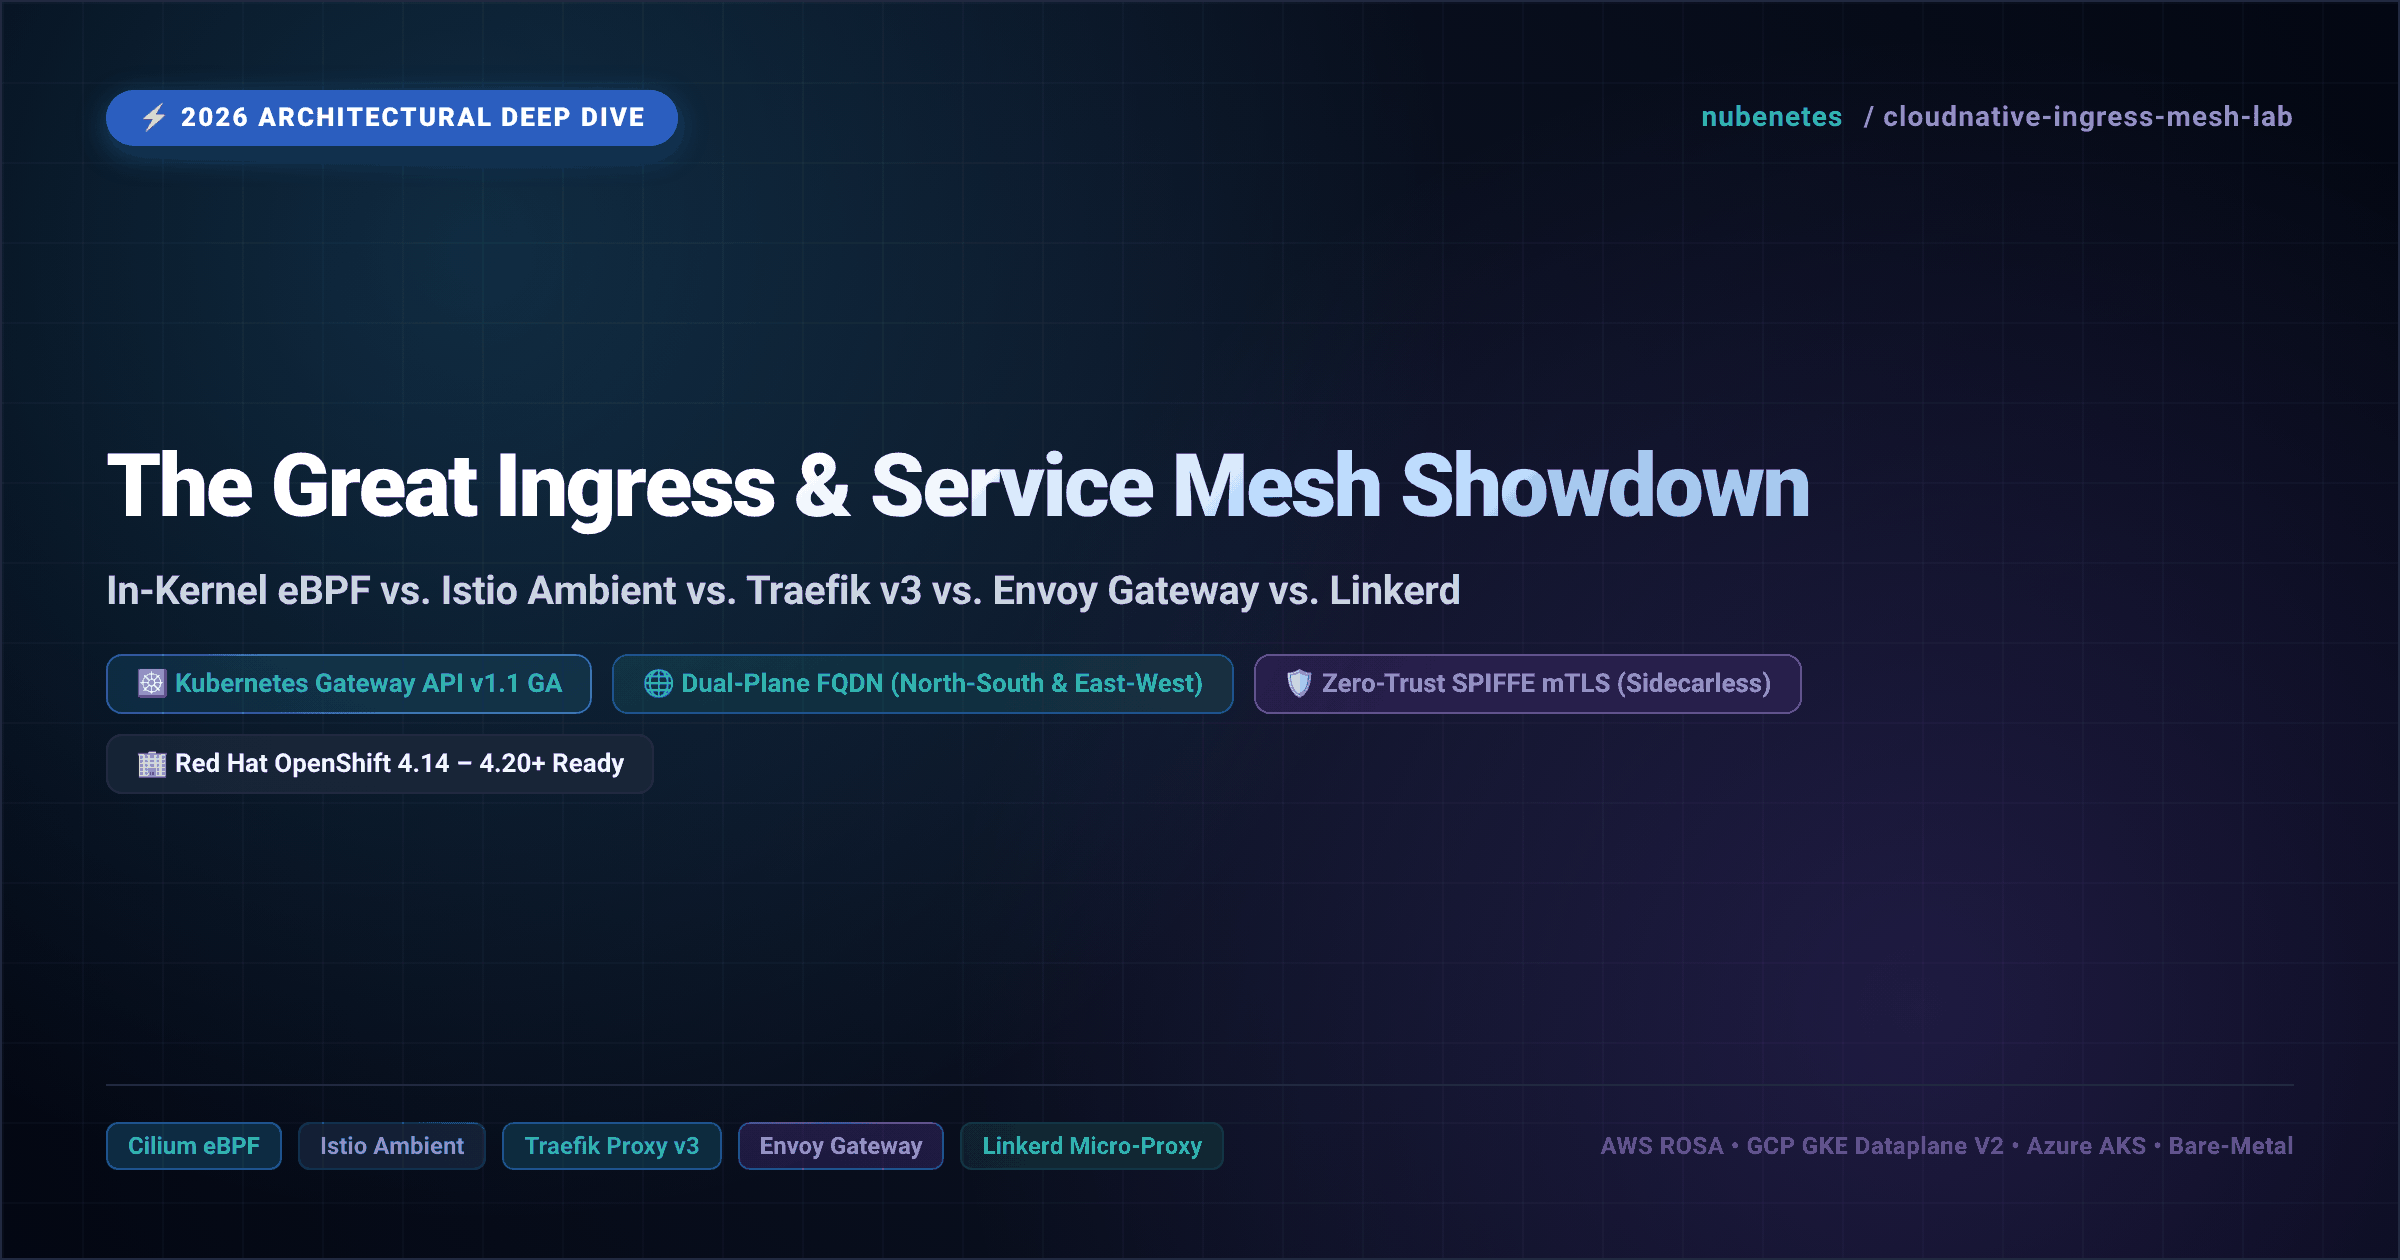
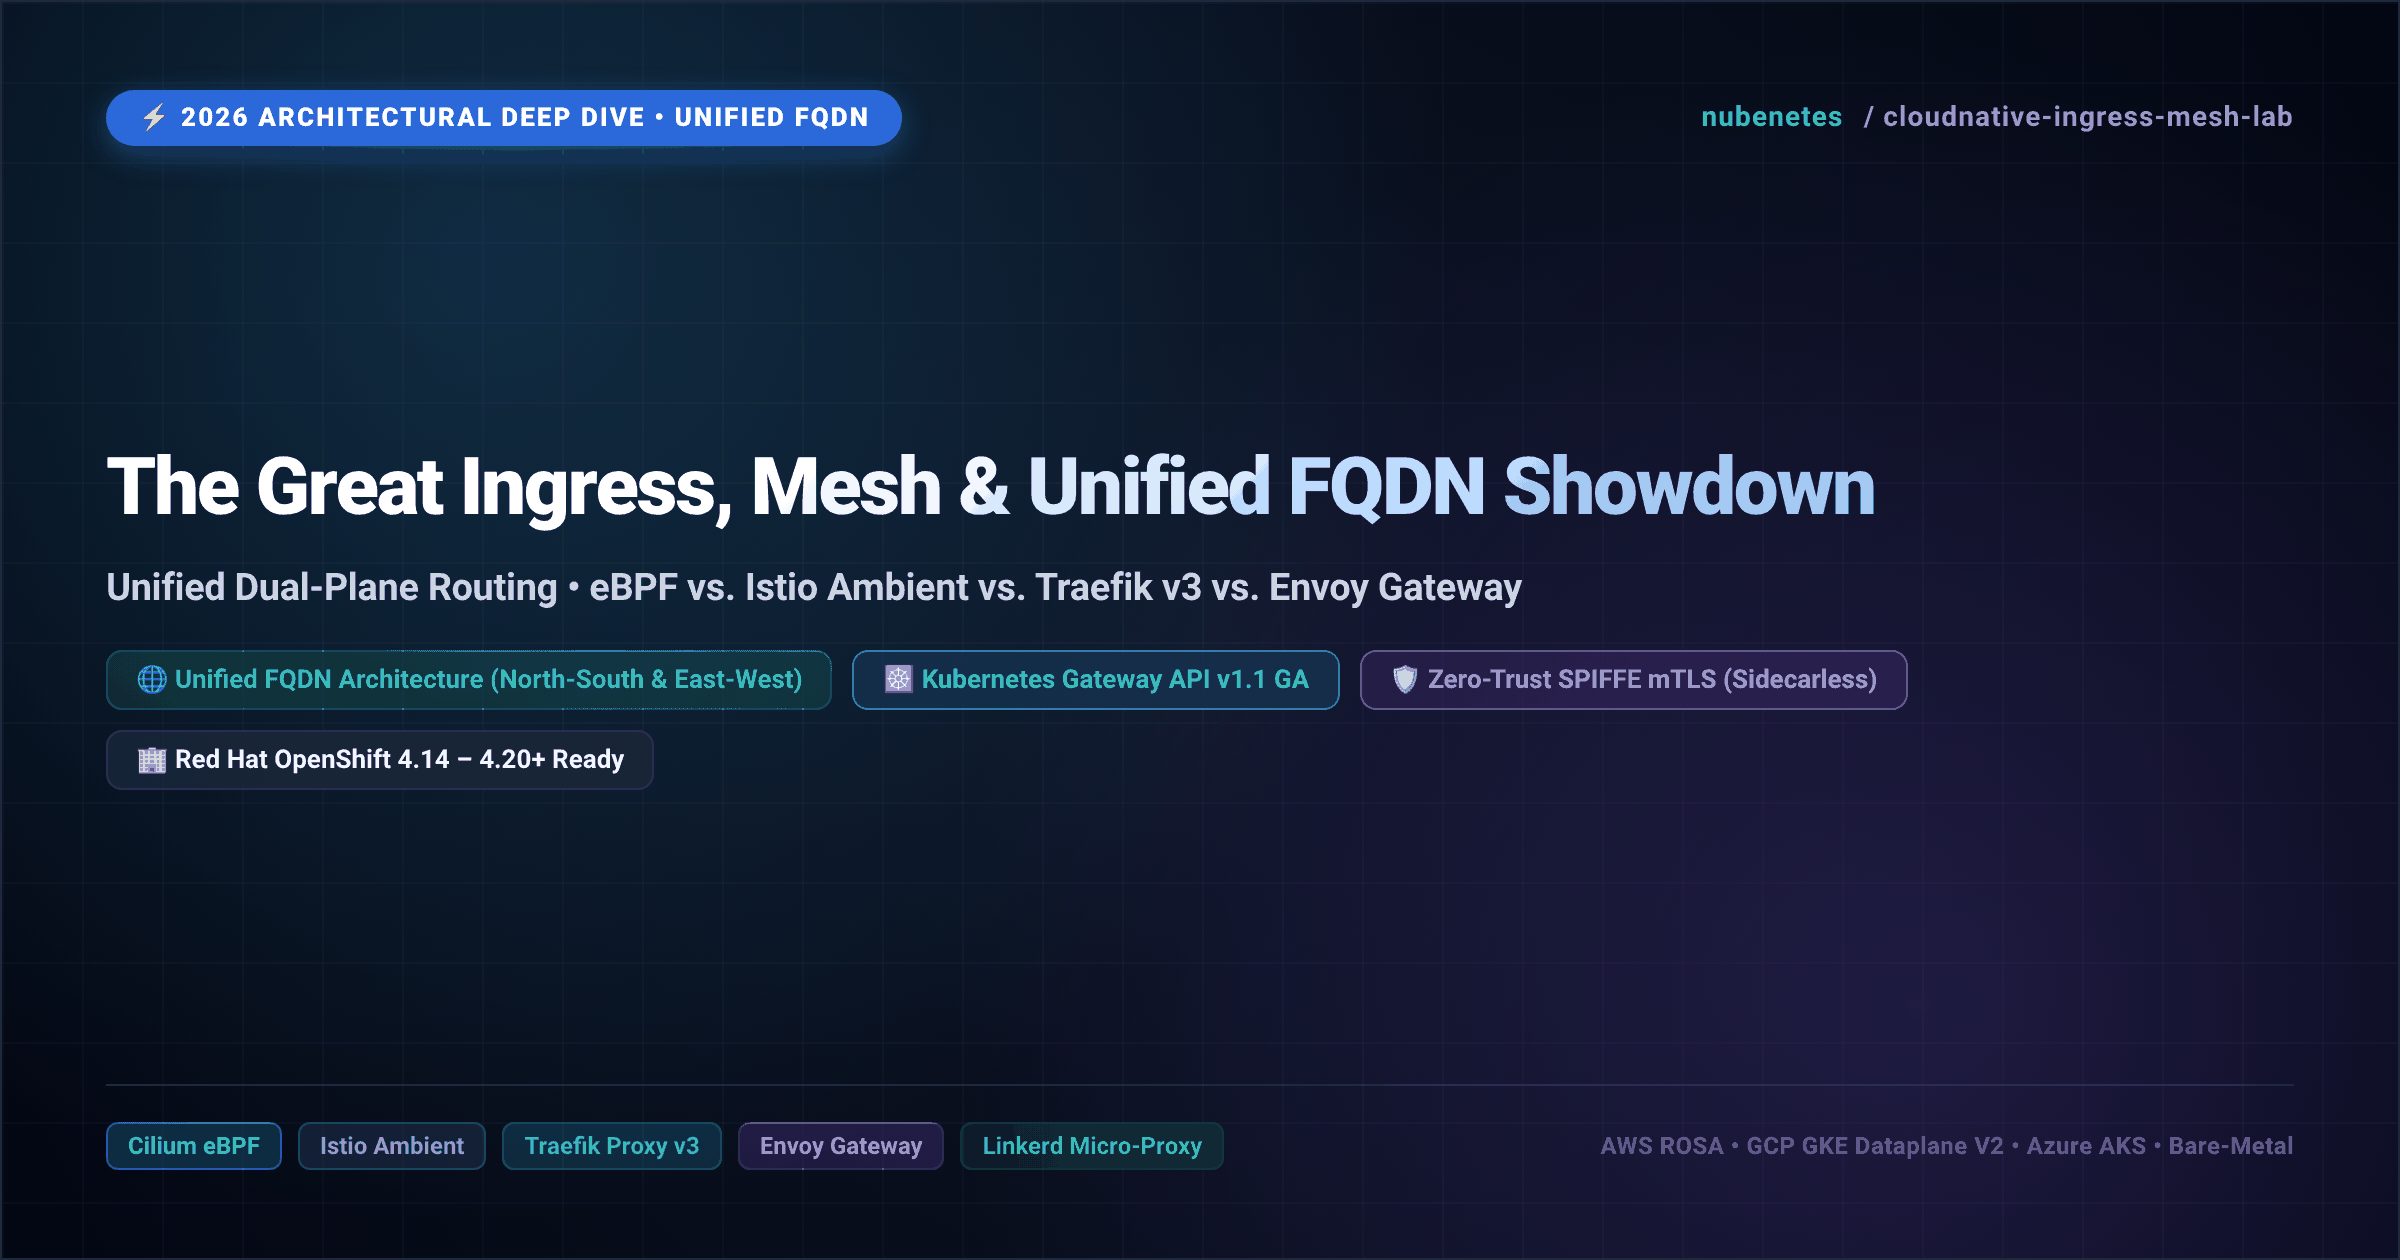
docs: add Unified FQDN to newsletter titles, covers, and technical explanations

Changed region(s): [[0.0312, 0.3405, 0.7812, 0.65], [0.0312, 0.0619, 0.375, 0.1548], [0.2188, 0.8976, 0.25, 0.9286]]

diff --git a/LINKEDIN_NEWSLETTER_ES.md b/LINKEDIN_NEWSLETTER_ES.md
@@ -1,6 +1,6 @@
-# 🚀 La Gran Batalla de Ingress y Service Mesh (Edición 2026): eBPF vs. Istio Ambient vs. Traefik v3 vs. Envoy Gateway vs. Linkerd
+# 🚀 La Gran Batalla de Ingress, Service Mesh y FQDN Unificado (Edición 2026): eBPF vs. Istio Ambient vs. Traefik v3 vs. Envoy Gateway vs. Linkerd
 
-**Subtítulo:** *Descifrando Kubernetes Gateway API, el Enrutamiento FQDN de Doble Plano y el Fin de los Sidecars en Entornos Corporativos de Kubernetes y Red Hat OpenShift*  
+**Subtítulo:** *Por qué la Arquitectura de FQDN Unificado (Norte-Sur y Este-Oeste) es Fundamental, Dominando Kubernetes Gateway API v1.1 GA y el Fin de los Sidecars en Kubernetes y Red Hat OpenShift Empresarial*  
 **Autor:** Equipo de Arquitectura e Ingeniería de Plataformas Cloud-Native  
 **Repositorios Oficiales de GitHub:**  
 👉 [**nubenetes/cloudnative-ingress-mesh-lab**](https://github.com/nubenetes/cloudnative-ingress-mesh-lab) (Laboratorio Multi-Motor)  
@@ -9,7 +9,7 @@
 
 ---
 
-![Portada del Newsletter: La Gran Batalla de Ingress y Service Mesh](https://raw.githubusercontent.com/nubenetes/cloudnative-ingress-mesh-lab/main/docs/images/newsletter/cover_newsletter_es.png)  
+![Portada del Newsletter: La Gran Batalla de Ingress, Mesh y FQDN Unificado](https://raw.githubusercontent.com/nubenetes/cloudnative-ingress-mesh-lab/main/docs/images/newsletter/cover_newsletter_es.png)  
 *🔍 [Ver Imagen de Portada en Alta Resolución (1200x630)](https://raw.githubusercontent.com/nubenetes/cloudnative-ingress-mesh-lab/main/docs/images/newsletter/cover_newsletter_es.png)*
 
 ---
@@ -54,9 +54,50 @@ Cada tecnología en el ecosistema cloud-native fue concebida para resolver un cu
 
 ---
 
-## 🌐 El Dilema del Enrutamiento FQDN de Doble Plano (Norte-Sur vs. Este-Oeste)
+## 🌐 ¿Qué es el FQDN Unificado y por qué es Crítico? El Dilema del Doble Plano (Norte-Sur vs. Este-Oeste)
 
-Uno de los errores conceptuales más frecuentes en la ingeniería de plataformas ocurre con la **resolución de nombres de dominio (FQDN)**.
+### 🎯 ¿Qué Significa "FQDN Unificado" en Arquitectura Cloud-Native?
+
+En implementaciones tradicionales de Kubernetes y Red Hat OpenShift, los equipos de plataforma operan con frecuencia bajo una desconexión o "split-brain" involuntario:
+- **Plano Norte-Sur (Ingress Perimetral):** Los clientes externos, navegadores web, aplicaciones móviles e integraciones de terceros acceden a los servicios a través de nombres canónicos corporativos limpios (por ejemplo, `https://facturacion.internal.corp/cobrar` o `https://api.empresa.com/v1/usuarios`).
+- **Plano Este-Oeste (Comunicación Interna Intra-Clúster):** Los microservicios que se llaman entre sí dentro del clúster se ven forzados a utilizar los nombres internos de CoreDNS (por ejemplo, `http://facturacion-svc.pagos-ns.svc.cluster.local:8080/cobrar`).
+
+El **FQDN Unificado (Unificación de Nombres de Dominio Completamente Calificados)** es un estándar de diseño arquitectónico en el que **un único nombre de dominio corporativo canónico** (como `facturacion.internal.corp` o `api.empresa.com`) es consumido de forma universal **tanto por clientes externos como por microservicios internos**, independientemente de dónde resida el emisor o el pod de destino.
+
+Bajo una arquitectura de FQDN Unificado:
+- Un desarrollador al programar, redactar especificaciones OpenAPI, compilar SPAs frontend o construir microservicios backend invoca exactamente el mismo endpoint: `https://facturacion.internal.corp/cobrar`.
+- La infraestructura de red subyacente (DNS, Gateway API, Ingress o Service Mesh) resuelve y enruta la conexión de forma totalmente transparente hacia el pod local o remoto, sin obligar al equipo de desarrollo a mantener configuraciones duplicadas ni URLs dependientes del entorno.
+
+---
+
+### 🛡 ¿Por qué es Crítico el FQDN Unificado en Entornos Empresariales?
+
+Implementar un FQDN Unificado no es un mero detalle cosmético de nomenclatura: es una pieza angular indispensable para la estabilidad, gobernanza y seguridad de cualquier plataforma moderna:
+
+1. **Eliminación del "Environment Drift" y Código Contaminado**:
+   - En arquitecturas de dominios divididos, el código fuente y los charts de Helm se llenan de bifurcaciones condicionales y variables de entorno duplicadas (`URL_FACTURACION_EXTERNA` frente a `URL_FACTURACION_INTERNA`).
+   - El FQDN Unificado asegura que el mismo artefacto, contenedor y SDK de cliente funcione de manera idéntica en entornos locales de desarrollo, canalizaciones CI/CD, clústeres de staging y producción multitenant.
+
+2. **Seguridad Zero-Trust y Aplicación Universal de Políticas L7**:
+   - Cuando los microservicios internos se comunican usando IPs ClusterIP directas (`*.svc.cluster.local`), el tráfico evade por completo los gateways perimetrales, los motores WAF, la validación de tokens JWT, los limitadores de tasa y los circuit breakers de Capa 7.
+   - Enrutar a través de un FQDN Unificado garantiza que **todo el tráfico—tanto el externo como el Este-Oeste interno—es inspeccionado y gobernado por las políticas de Gateway API o de la Malla de Servicios**, aplicando auditoría, control de acceso y mTLS homogéneo.
+
+3. **Validación Transparente de Certificados TLS y Nombres Alternativos (SAN)**:
+   - El modelo Zero-Trust corporativo exige cifrado TLS extremo a extremo con estricta validación de hostnames.
+   - Al usar `*.svc.cluster.local`, las entidades emisoras de certificados (cert-manager, HashiCorp Vault) deben emitir certificados con nombres SAN internos no estándar, o en el peor de los casos, los desarrolladores desactivan la validación con `insecureSkipVerify: true` (una grave brecha de seguridad).
+   - Con FQDN Unificado, los certificados corporativos oficiales (`SAN: facturacion.internal.corp`) validan sin advertencias ni excepciones tanto dentro como fuera del clúster.
+
+4. **Desacoplamiento de la Topología de Clúster y Movilidad Híbrida**:
+   - Acoplarse a `servicio.namespace.svc.cluster.local` ata rígidamente las aplicaciones al clúster y namespace físico. Si el servicio de facturación se migra a otro namespace, a un clúster dedicado, a una base de datos gestionada o se traslada durante una actualización blue-green del clúster, todos los clientes internos fallan.
+   - Con FQDN Unificado, la ubicación física es abstracta. Las cargas de trabajo adquieren movilidad absoluta entre OpenShift on-premises, AWS ROSA y GCP GKE Dataplane V2 sin alterar una sola línea de código.
+
+---
+
+### ⚠ La Trampa del Doble Plano: El Límite entre Capa 4 y Capa 7
+
+Si el FQDN Unificado es tan beneficioso, ¿por qué no viene habilitado por defecto en Kubernetes?
+
+Por la **Trampa del Límite de Capas**. El fallo más recurrente en ingeniería de plataformas consiste en asumir que Gateway API por sí solo resuelve la resolución interna de nombres:
 
 Muchos arquitectos asumen erróneamente:
 > *"Si configuro un `HTTPRoute` de Gateway API con `Host(`facturacion.internal.corp`)`, mis microservicios internos podrán conectarse inmediatamente invocando `https://facturacion.internal.corp/cobrar`."*

diff --git a/LINKEDIN_NEWSLETTER_EN.md b/LINKEDIN_NEWSLETTER_EN.md
@@ -1,6 +1,6 @@
-# 🚀 The Great Ingress & Service Mesh Showdown (2026 Edition): eBPF vs. Istio Ambient vs. Traefik v3 vs. Envoy Gateway vs. Linkerd
+# 🚀 The Great Ingress, Service Mesh & Unified FQDN Showdown (2026 Edition): eBPF vs. Istio Ambient vs. Traefik v3 vs. Envoy Gateway vs. Linkerd
 
-**Subtitle:** *Navigating Kubernetes Gateway API, Dual-Plane FQDN Routing, and the Death of Sidecars in Enterprise Kubernetes & Red Hat OpenShift*  
+**Subtitle:** *Why Unified FQDN (North-South & East-West) is Essential, Navigating Kubernetes Gateway API v1.1 GA, and the Elimination of the Sidecar Tax in Enterprise Kubernetes & Red Hat OpenShift*  
 **Author:** Cloud-Native Platform Engineering Architecture Team  
 **Companion GitHub Repositories:**  
 👉 [**nubenetes/cloudnative-ingress-mesh-lab**](https://github.com/nubenetes/cloudnative-ingress-mesh-lab) (Multi-Engine Laboratory)  
@@ -9,7 +9,7 @@
 
 ---
 
-![Cover Banner: The Great Ingress & Service Mesh Showdown](https://raw.githubusercontent.com/nubenetes/cloudnative-ingress-mesh-lab/main/docs/images/newsletter/cover_newsletter_en.png)  
+![Cover Banner: The Great Ingress, Mesh & Unified FQDN Showdown](https://raw.githubusercontent.com/nubenetes/cloudnative-ingress-mesh-lab/main/docs/images/newsletter/cover_newsletter_en.png)  
 *🔍 [View Full-Resolution Cover Image (1200x630)](https://raw.githubusercontent.com/nubenetes/cloudnative-ingress-mesh-lab/main/docs/images/newsletter/cover_newsletter_en.png)*
 
 ---
@@ -54,9 +54,50 @@ Every technology in the cloud-native networking landscape was designed to solve 
 
 ---
 
-## 🌐 The Dual-Plane FQDN Routing Dilemma (North-South vs. East-West)
+## 🌐 What is Unified FQDN & Why is it Critical? The Dual-Plane Dilemma (North-South vs. East-West)
 
-One of the most frequent points of failure in enterprise Kubernetes deployments is **domain name resolution (FQDN routing)**.
+### 🎯 What Does "Unified FQDN" Mean in Cloud-Native Architecture?
+
+In conventional Kubernetes and OpenShift implementations, platform engineering teams frequently operate under an unintentional architectural split-brain:
+- **North-South (External Ingress Plane):** External clients, public browsers, mobile applications, and partner integrations connect via standard, business-friendly hostnames (e.g., `https://billing.corp.internal/charge` or `https://api.corporate.com/v1/users`).
+- **East-West (Internal In-Cluster Plane):** Microservices calling each other from within the same cluster are forced to rely on Kubernetes-internal cluster-local DNS names (e.g., `http://billing-svc.payments-ns.svc.cluster.local:8080/charge`).
+
+**Unified FQDN (Fully Qualified Domain Name Unification)** is an architectural design paradigm where **one single, canonical corporate domain name** (such as `billing.corp.internal` or `api.corporate.com`) is used universally by **both external clients and internal microservices**, regardless of where the caller or the backend workload is physically hosted.
+
+Under a true Unified FQDN architecture:
+- A developer writing application code, designing an OpenAPI specification, building a frontend SPA, or maintaining a backend microservice invokes the exact same endpoint: `https://billing.corp.internal/charge`.
+- The underlying networking fabric (DNS, Gateway API, Ingress controller, or Service Mesh) transparently resolves and steers the connection to the correct local or remote destination without requiring developers to fork configurations or handle environment-dependent hostnames.
+
+---
+
+### 🛡 Why is Unified FQDN Critically Important for Enterprise Platforms?
+
+Achieving a Unified FQDN is not merely a naming convenience—it is a cornerstone requirement for modern, secure enterprise platform engineering:
+
+1. **Elimination of Environment Drift & Code Pollution**:
+   - In traditional split-domain architectures, application source code and Helm charts are plagued by conditional branches and duplicate environment variables (`EXTERNAL_PAYMENT_URL` vs. `INTERNAL_PAYMENT_URL`).
+   - Unified FQDN guarantees that the exact same application container image, configuration maps, and API client SDKs run identically across local workstations, CI/CD automated test suites, staging environments, and multi-tenant production clusters.
+
+2. **Universal Zero-Trust & L7 Policy Enforcement**:
+   - When internal microservices communicate using raw `*.svc.cluster.local` ClusterIPs, their network packets bypass perimeter API gateways, WAF filters, JWT validation stages, rate-limiting tiers, and L7 circuit breakers.
+   - Routing through a Unified FQDN ensures that **all traffic—both external ingress and internal East-West—is intercepted by Gateway API or Service Mesh filters**, enforcing enterprise security baselines, audit trails, and mTLS identity uniformly across the enterprise.
+
+3. **Consistent TLS and Subject Alternative Name (SAN) Validation**:
+   - Modern zero-trust frameworks mandate strict TLS verification across all hops.
+   - When internal services call `*.svc.cluster.local`, enterprise PKI certificates (issued via cert-manager or HashiCorp Vault) often fail hostname verification unless cumbersome internal SANs are generated, or worse, developers disable verification using `insecureSkipVerify: true` (a critical enterprise vulnerability).
+   - Unified FQDN ensures that standard corporate x509 certificates (`SAN: billing.corp.internal`) validate cleanly for both internal and external callers with zero certificate warnings.
+
+4. **Topology Abstraction & Seamless Multi-Cluster Mobility**:
+   - Relying on `service.namespace.svc.cluster.local` hardcodes microservices directly to a specific Kubernetes namespace and cluster topology. If the service is migrated to a new namespace, extracted into a dedicated cluster, moved to a managed cloud database/SaaS, or shifted during a blue-green cluster upgrade, all calling microservices break.
+   - With Unified FQDN, physical workload locations are completely decoupled from application logic. Workloads achieve frictionless mobility across Red Hat OpenShift on-premises, AWS ROSA, and GCP GKE Dataplane V2.
+
+---
+
+### ⚠ The Dual-Plane FQDN Trap: The Layer 4 vs. Layer 7 Boundary
+
+If Unified FQDN is so essential, why isn't it the default in every Kubernetes cluster?
+
+Because of the **Layer Boundary Trap**. One of the most frequent points of failure in enterprise Kubernetes deployments is assuming that Gateway API alone solves in-cluster FQDN resolution:
 
 Platform engineers often assume:
 > *"If I configure a Gateway API `HTTPRoute` matching `Host(`billing.internal.corp`)`, my microservices can immediately call `https://billing.internal.corp/charge`."*

diff --git a/README.md b/README.md
@@ -70,8 +70,8 @@
 | **[LAB_CILIUM.md](docs/LAB_CILIUM.md)** | Automated PoC: Kernel-level eBPF Gateway & Mesh, Canary, Hubble observability |
 | **[LAB_ISTIO_AMBIENT.md](docs/LAB_ISTIO_AMBIENT.md)** | Automated PoC: Sidecarless Istio Ambient (ztunnel + Waypoint), mTLS validation |
 | **[LAB_TRAEFIK_EDGE.md](docs/LAB_TRAEFIK_EDGE.md)** | Automated PoC: Gateway API-native Edge Router, Middlewares, CircuitBreaker |
-| **[LINKEDIN_NEWSLETTER_EN.md](LINKEDIN_NEWSLETTER_EN.md)** | LinkedIn Newsletter Edition (English): Complete 2026 architecture analysis, dual-plane FQDN, TCO benchmarks & playbooks |
-| **[LINKEDIN_NEWSLETTER_ES.md](LINKEDIN_NEWSLETTER_ES.md)** | Edición Boletín LinkedIn (Español): Análisis integral 2026, FQDN dual, comparativa TCO y guías de migración |
+| **[LINKEDIN_NEWSLETTER_EN.md](LINKEDIN_NEWSLETTER_EN.md)** | LinkedIn Newsletter Edition (English): Complete 2026 architecture analysis, Unified FQDN, TCO benchmarks & playbooks |
+| **[LINKEDIN_NEWSLETTER_ES.md](LINKEDIN_NEWSLETTER_ES.md)** | Edición Boletín LinkedIn (Español): Análisis integral 2026, FQDN Unificado, comparativa TCO y guías de migración |
 
 ---
 
@@ -724,8 +724,8 @@ flowchart TD
 ```
 cloudnative-ingress-mesh-lab/
 ├── README.md                 # Executive evaluation, architecture analysis, and ranking matrix
-├── LINKEDIN_NEWSLETTER_EN.md # LinkedIn newsletter edition (English): Complete 2026 architectural analysis
-├── LINKEDIN_NEWSLETTER_ES.md # Edición boletín LinkedIn (Español): Análisis arquitectónico integral 2026
+├── LINKEDIN_NEWSLETTER_EN.md # LinkedIn newsletter edition (English): Complete 2026 architectural analysis & Unified FQDN
+├── LINKEDIN_NEWSLETTER_ES.md # Edición boletín LinkedIn (Español): Análisis arquitectónico integral 2026 y FQDN Unificado
 ├── Makefile                  # Global automation orchestrator for labs
 ├── docs/                     # Comprehensive architectural deep dives
 │   ├── ARCHITECTURE.md       # Multi-layer packet flow analyses and tradeoffs
